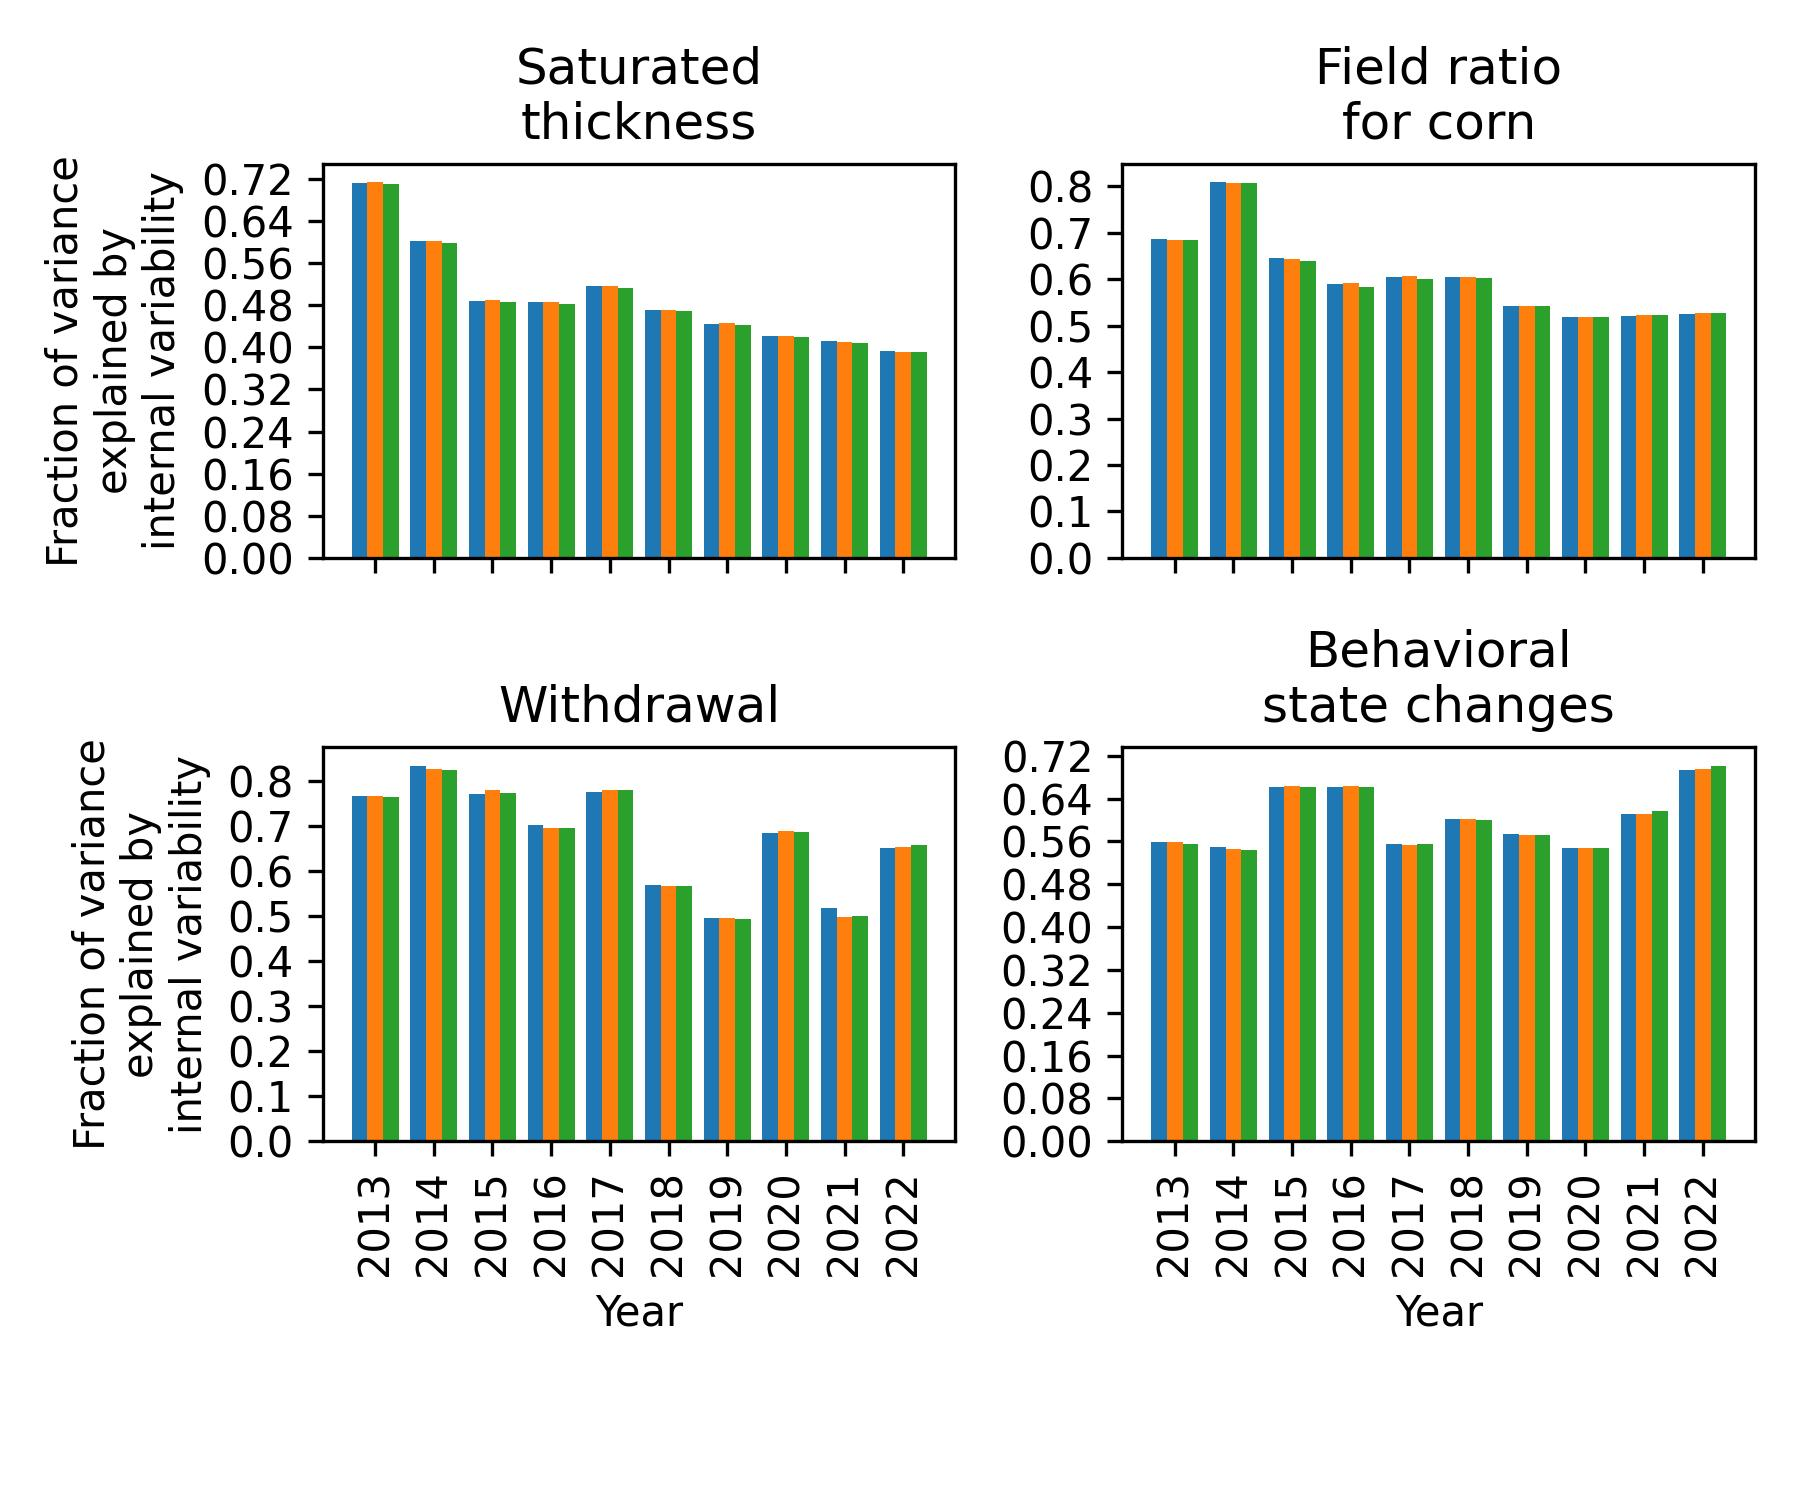
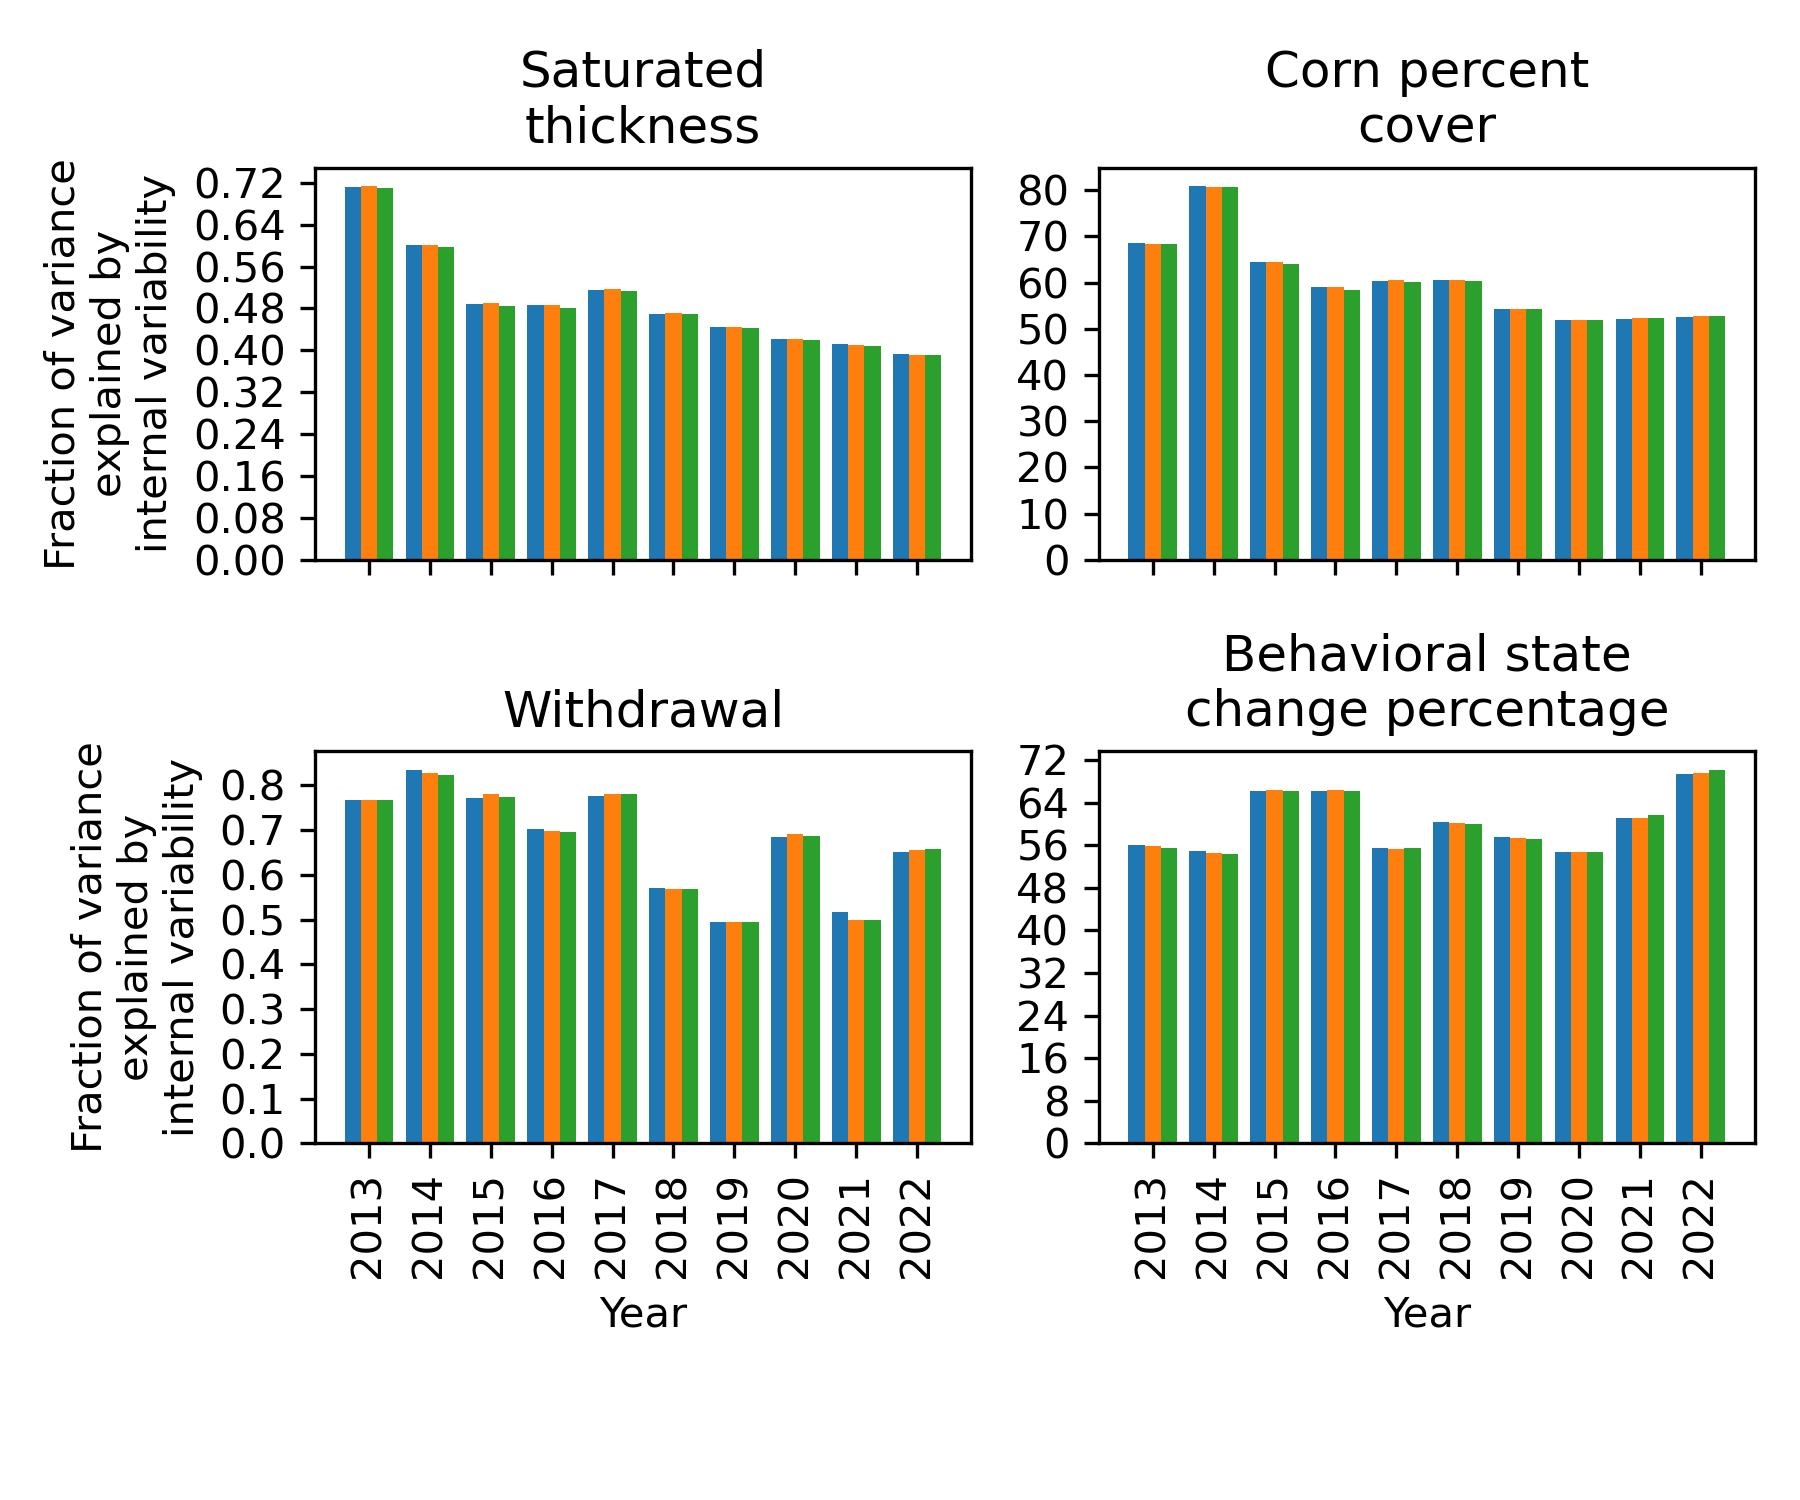
update figure

Changed region(s): [[0.0311, 0.0307, 0.9644, 0.8893]]

diff --git a/code/anova_utils.py b/code/anova_utils.py
@@ -35,9 +35,19 @@ var_dict_revised2 = {
     'ST': 'Saturated\nthickness',
     'Wi': 'Withdrawal',
     'RF': 'Rainfed\npercent cover',
-    'CF': 'Corn\npercent\npercentage',
+    'CF': 'Corn\npercent\ncover',
     'OF': 'Other crops percent cover',
     'CSC': 'Behavioral\nstate change\npercentatge',
+    'TP': 'Total\nprofit'
+    }
+
+var_dict_revised3 = {
+    'ST': 'Saturated\nthickness',
+    'Wi': 'Withdrawal',
+    'RF': 'Rainfed\npercent cover',
+    'CF': 'Corn percent\ncover',
+    'OF': 'Other crops percent cover',
+    'CSC': 'Behavioral\nstate change %',
     'TP': 'Total\nprofit'
     }
 
@@ -344,9 +354,9 @@ def plot_anova_sum_sq_fraction(mu_dict, save_figname=None):
     add_anova_mean(ax, v)
 
     # Add section titles (in place of axes[0/1].set_title)
-    fig.text(0.15, 0.99, "Policy-relevant indicator", fontsize=12, va='top', ha='left')
-    fig.text(0.585, 0.99, "Human behavioral variable", fontsize=12, va='top', ha='left')
-    fig.text(-0.02, 0.5, "Fraction of variance explained", va='center', ha='center',
+    fig.text(0.122, 0.99, "Policy-relevant indicator", fontsize=12, va='top', ha='left')
+    fig.text(0.581, 0.99, "Human behavioral variable", fontsize=12, va='top', ha='left')
+    fig.text(-0.05, 0.5, "Fraction of variance explained", va='center', ha='center',
              rotation='vertical', fontsize=12)
 
     labels = ['(a)', '(b)', '(c)', '(d)', '(e)', '(f)', '(g)', '(h)']
@@ -699,9 +709,9 @@ def plot_norm_comparison(pn, df_Wi_regime_norm, fraction=True, save_figname=None
         for i, v in enumerate(vlist):
             # Label for lower (left side)
             if reverse:
-                ax.text(0.02, y[i], var_dict[v], va='center', ha='left', fontsize=9)
+                ax.text(0.02, y[i], var_dict_revised3[v], va='center', ha='left', fontsize=9)
             else:
-                ax.text(-0.02, y[i], var_dict[v], va='center', ha='right', fontsize=9)
+                ax.text(-0.02, y[i], var_dict_revised3[v], va='center', ha='right', fontsize=9)
 
         # Aesthetics
         ax.set_yticks([])

diff --git a/figures/code_for_plotting/figS6_convergence.py b/figures/code_for_plotting/figS6_convergence.py
@@ -145,7 +145,10 @@ axes = axes.flatten()
 handles, labels = None, None
 
 for ax, v in zip(axes, vlist):
-    df = nRe_iv_dict[v].copy()
+    if v in ["CSC", "CF"]:
+        df = nRe_iv_dict[v].copy()*100
+    else:
+        df = nRe_iv_dict[v].copy()
 
     # keep only 2013–2022 and ensure year index is integer
     df.index = df.index.astype(int)
@@ -195,8 +198,10 @@ axes = axes.flatten()
 handles, labels = None, None
 
 for ax, v in zip(axes, vlist):
-    df = nCd_iv_dict[v].copy()
-
+    if v in ["CSC", "CF"]:
+        df = nCd_iv_dict[v].copy()*100
+    else:
+        df = nCd_iv_dict[v].copy()
     # keep only 2013–2022 and ensure year index is integer
     df.index = df.index.astype(int)
     df = df.loc[(df.index >= 2013) & (df.index <= 2022)]
@@ -245,7 +250,10 @@ axes = axes.flatten()
 handles, labels = None, None
 
 for ax, v in zip(axes, vlist):
-    df = seeds_iv_dict[v].copy()
+    if v in ["CSC", "CF"]:
+        df = seeds_iv_dict[v].copy()*100
+    else:
+        df = seeds_iv_dict[v].copy()
 
     # keep only 2013–2022 and ensure year index is integer
     df.index = df.index.astype(int)

diff --git a/figures/code_for_plotting/fig4_5_anova.py b/figures/code_for_plotting/fig4_5_anova.py
@@ -2,7 +2,10 @@ import pandas as pd
 import pathnavigator
 import clt
 
-root_dir = rf"C:\Users\{pathnavigator.user}\Documents\GitHub\SD6InternalVariability"
+if pathnavigator.os_name == 'Darwin':
+    root_dir = rf"/Users/{pathnavigator.user}/Documents/GitHub/SD6InternalVariability"
+else:
+    root_dir = rf"C:\Users\{pathnavigator.user}\Documents\GitHub\SD6InternalVariability"
 pn = pathnavigator.create(root_dir)
 pn.code.chdir()
 
